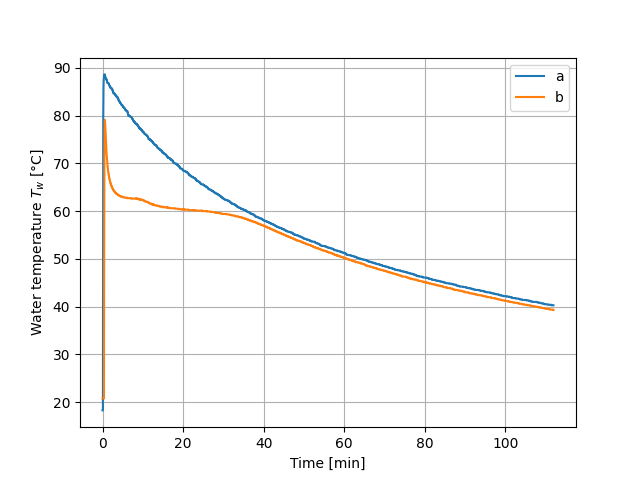
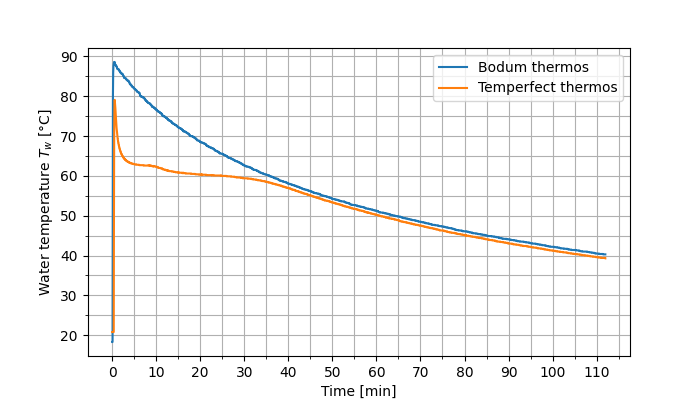
finetuning of plot

diff --git a/Obligs/Oblig 1/plot_data.py b/Obligs/Oblig 1/plot_data.py
@@ -10,9 +10,21 @@ time = data[:, 0] / 60
 temp1 = data[:, 1]
 temp2 = data[:, 2]
 
+plt.figure(figsize=(7, 4))
 plt.plot(time, temp1, time, temp2)
 plt.legend(["Bodum thermos", "Temperfect thermos"])
 plt.xlabel("Time [min]")
 plt.ylabel("Water temperature $T_w$ [°C]")
-plt.grid()
+
+# Grid ticks
+xmin = 0
+xmax = 116
+plt.xticks(range(xmin, xmax, 10))
+plt.xticks(range(xmin, xmax, 5), minor=True)
+ymin = 20
+ymax = 91
+plt.yticks(range(ymin, ymax, 10))
+plt.yticks(range(ymin, ymax, 5), minor=True)
+plt.grid(which="both")
+
 plt.savefig("figures/termokopper_plot.png")
